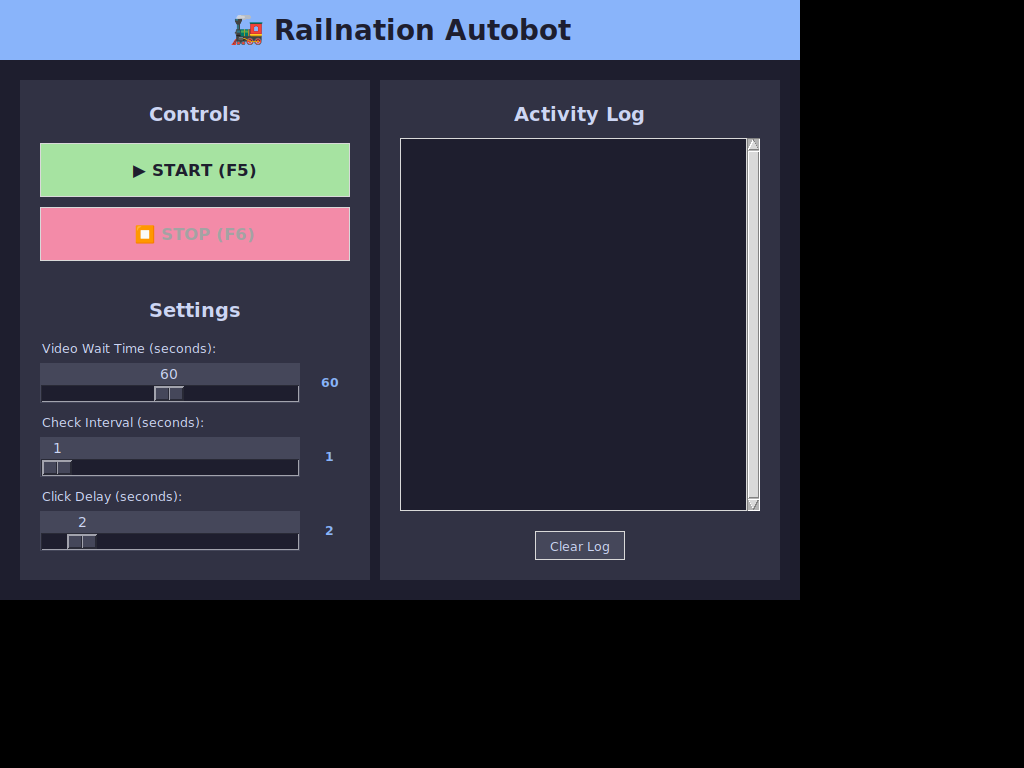
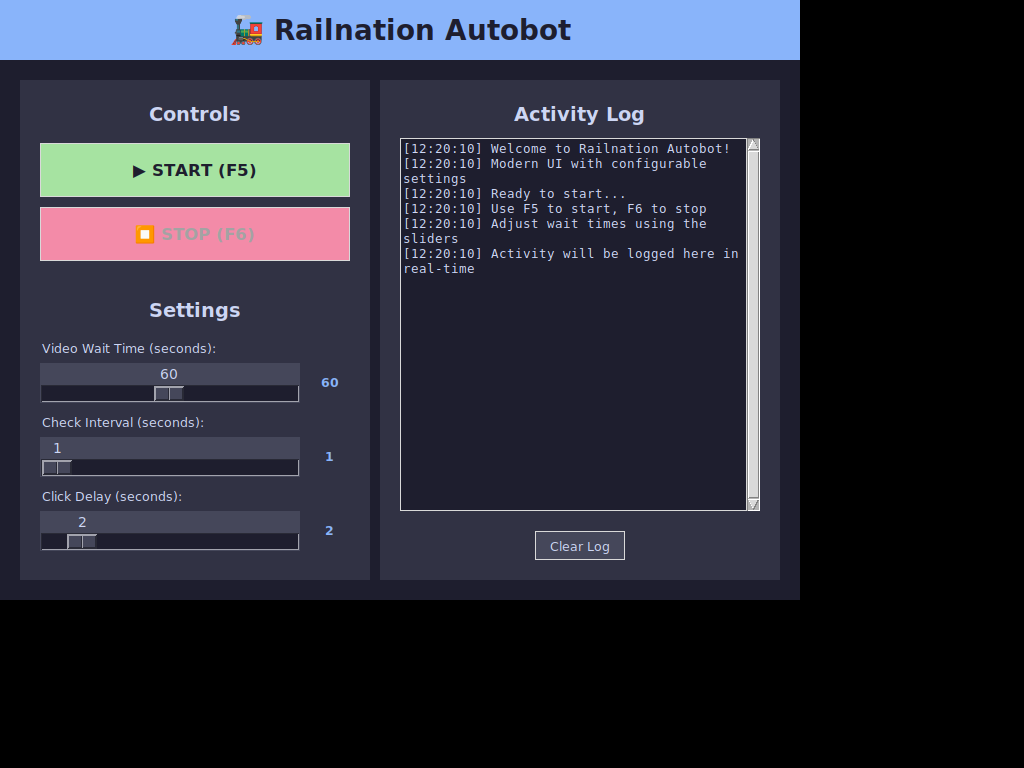
Add launch script, update screenshot and improve README

Changed region(s): [[0.375, 0.1875, 0.7188, 0.375]]

diff --git a/start_ui.py b/start_ui.py
@@ -1,0 +1,32 @@
+#!/usr/bin/env python3
+"""
+Railnation Autobot - Start Script
+Launches the modern UI for the Railnation automation bot.
+"""
+
+import sys
+import os
+
+# Check if required packages are installed
+try:
+    import tkinter
+except ImportError:
+    print("ERROR: tkinter is not installed!")
+    print("On Ubuntu/Debian, install with: sudo apt-get install python3-tk")
+    sys.exit(1)
+
+try:
+    import pyautogui
+except ImportError:
+    print("WARNING: pyautogui is not installed!")
+    print("Install with: pip install pyautogui")
+    print("The UI will launch but bot functionality will be limited.")
+    print()
+    response = input("Continue anyway? (y/n): ")
+    if response.lower() != 'y':
+        sys.exit(0)
+
+# Launch the UI
+if __name__ == "__main__":
+    from railnation_ui import main
+    main()

diff --git a/README.md b/README.md
@@ -1,6 +1,8 @@
 # Railnation Autobot
 Ein Bot um in Railnation Werbung zu gucken
 
+![UI Screenshot](ui_screenshot.png)
+
 ## Features
 - 🎨 **Modern UI** - Benutzerfreundliche grafische Oberfläche mit dunklem Theme
 - ⚡ **Keyboard Shortcuts** - F5 zum Starten, F6 zum Stoppen
@@ -22,6 +24,10 @@ pip install pyautogui pillow
 ## Verwendung
 
 ### Mit UI (empfohlen)
+```bash
+python3 start_ui.py
+```
+Oder direkt:
 ```bash
 python3 railnation_ui.py
 ```
